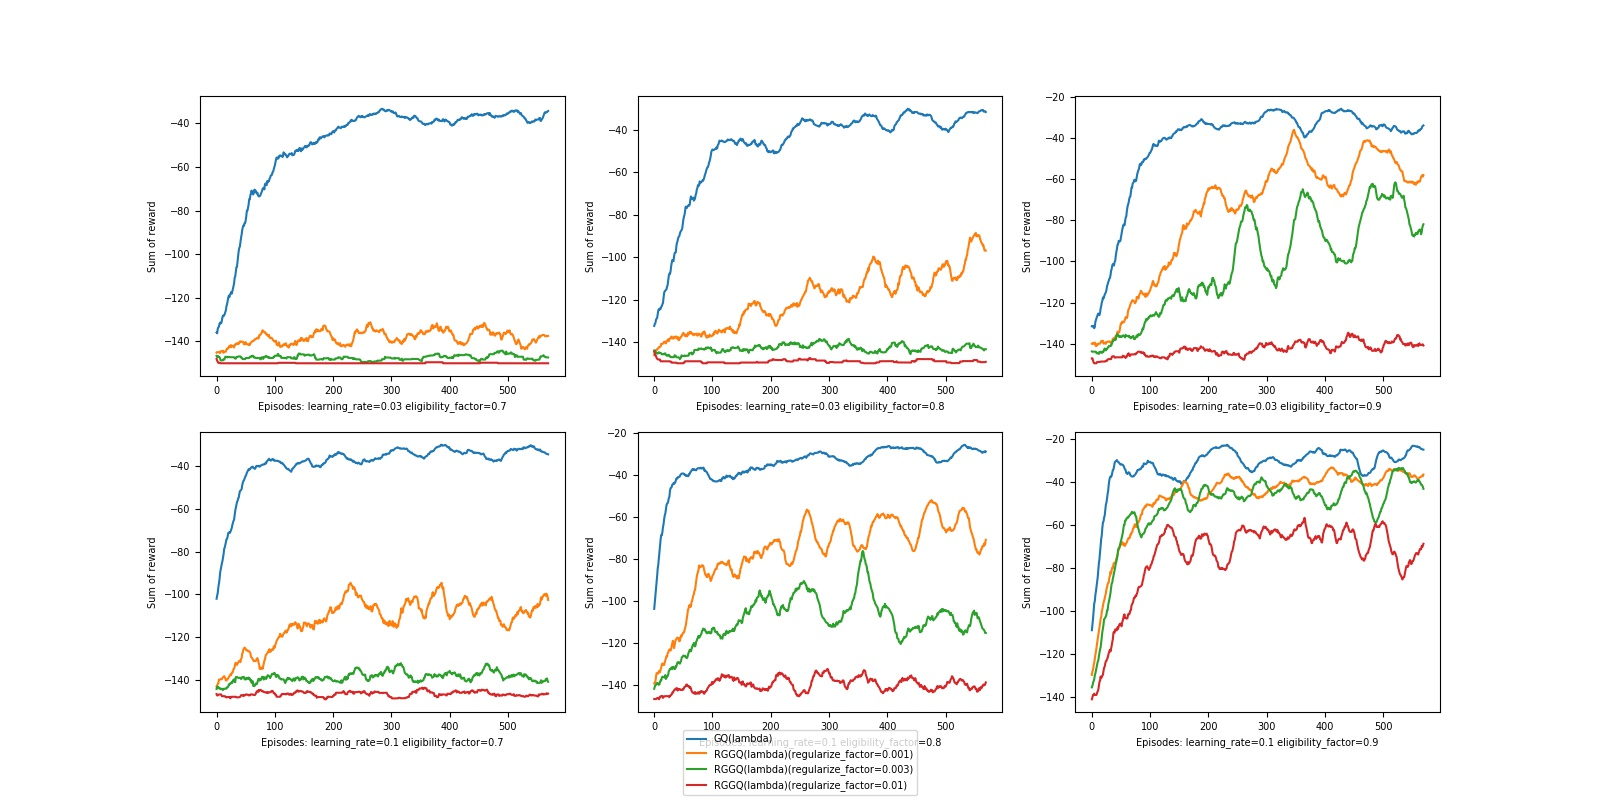
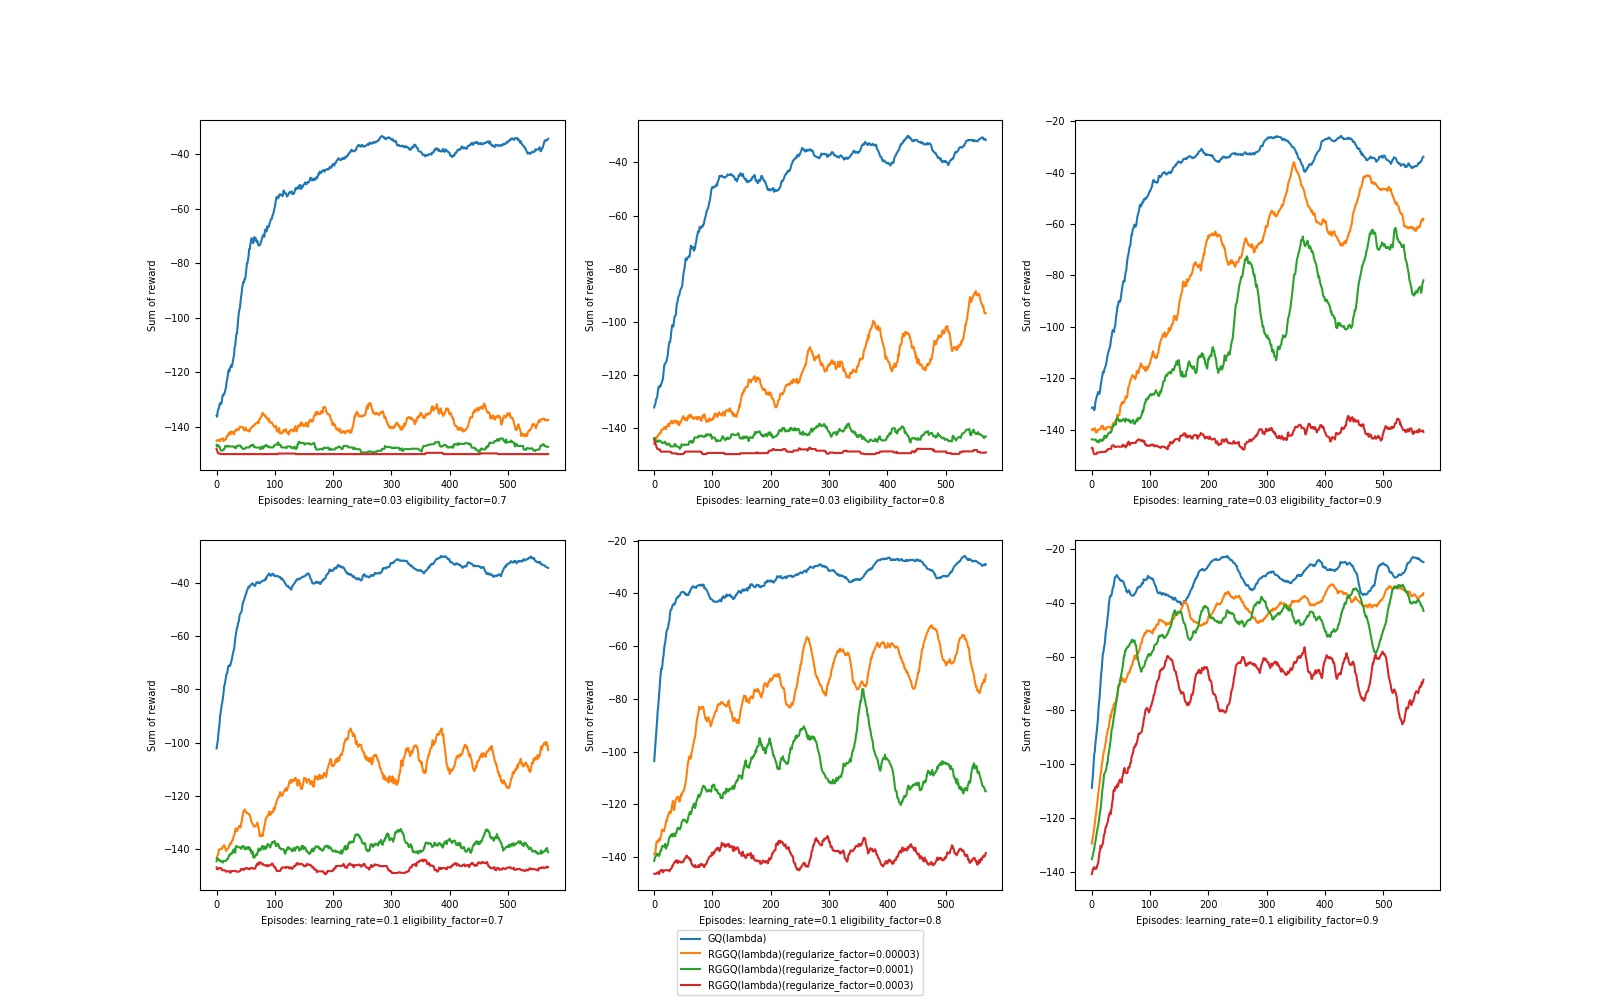
Mountain car data finished

diff --git a/Project/data/MountainCar/data_analysis.py b/Project/data/MountainCar/data_analysis.py
@@ -1,14 +1,11 @@
 import pickle
 import matplotlib
 from matplotlib import pyplot as plt
-import numpy.ma as ma
-import numpy as np
-from pykalman import KalmanFilter
 
 
 def read_data():
     data = {}
-    for data_type in ["time_history", "total_reward"]:
+    for data_type in ["time_history", "total_reward", ]:
         data[data_type] = {}
         for algo in ["GGQ", "RGGQ"]:
             data[data_type][algo] = {}
@@ -16,16 +13,6 @@ def read_data():
                 data[data_type][algo][learning_rate] = {}
                 for eligibility_factor in [0.7, 0.8, 0.9]:
                     data[data_type][algo][learning_rate][eligibility_factor] = {}
-                    if "OSKQ" == algo:
-                        for mu_1 in [0.04]:
-                            data[data_type][algo][learning_rate][eligibility_factor][mu_1] = {}
-                            for mu_2 in [0.04, 0.08]:
-                                with open(
-                                        data_type + "_" + algo + "-" + str(learning_rate) +
-                                        "-" + str(eligibility_factor) + "-" + str(mu_1) + "-" + str(mu_2),
-                                        'rb'
-                                ) as f:
-                                    data[data_type][algo][learning_rate][eligibility_factor][mu_1][mu_2] = pickle.load(f)
 
                     if "RGGQ" == algo:
                         for regularize_factor in [0.00003, 0.0001, 0.0003]:
@@ -42,6 +29,20 @@ def read_data():
                                 'rb'
                         ) as f:
                             data[data_type][algo][learning_rate][eligibility_factor] = pickle.load(f)
+
+    data["sparsity"] = {}
+    data["sparsity"]["RGGQ"] = {}
+    for learning_rate in [0.03, 0.1]:
+        data["sparsity"]["RGGQ"][learning_rate] = {}
+        for eligibility_factor in [0.7, 0.8, 0.9]:
+            data["sparsity"]["RGGQ"][learning_rate][eligibility_factor] = {}
+            for regularize_factor in [0.00003, 0.0001, 0.0003]:
+                with open(
+                    "sparsity_RGGQ" + "-" + str(learning_rate) + "-" +
+                    str(eligibility_factor) + "-" + str(regularize_factor),
+                    'rb'
+                ) as f:
+                    data["sparsity"]["RGGQ"][learning_rate][eligibility_factor][regularize_factor] = pickle.load(f)
     return data
 
 
@@ -49,7 +50,7 @@ def save_img(data):
     font = {'family': 'normal',
             'size': 7}
     matplotlib.rc('font', **font)
-    fig = plt.figure(figsize=(16, 8))
+    fig = plt.figure(figsize=(16, 10))
     for learning_rate_idx, learning_rate in enumerate([0.03, 0.1]):
         for eligibility_factor_idx, eligibility_factor in enumerate([0.7, 0.8, 0.9]):
             ax = fig.add_subplot(
@@ -61,49 +62,63 @@ def save_img(data):
             line_2, = plt.plot(data["total_reward"]["RGGQ"][learning_rate][eligibility_factor][0.00003])
             line_3, = plt.plot(data["total_reward"]["RGGQ"][learning_rate][eligibility_factor][0.0001])
             line_4, = plt.plot(data["total_reward"]["RGGQ"][learning_rate][eligibility_factor][0.0003])
-            # line_5, = plt.plot(data["total_reward"]["OSKQ"][learning_rate][eligibility_factor][0.04])
-            # line_6, = plt.plot(data["total_reward"]["OSKQ"][learning_rate][eligibility_factor][0.08])
     fig.legend(
         (line_1, line_2, line_3, line_4),
         (
-            "GQ(lambda)", "RGGQ(lambda)(regularize_factor=0.001)",
-            "RGGQ(lambda)(regularize_factor=0.003)", "RGGQ(lambda)(regularize_factor=0.01)",
+            "GQ(lambda)",
+            "RGGQ(lambda)(regularize_factor=0.00003)",
+            "RGGQ(lambda)(regularize_factor=0.0001)",
+            "RGGQ(lambda)(regularize_factor=0.0003)",
         ),
         loc=8)
 
-    # fig.legend(
-    #     (line_1, line_2, line_3, line_4, line_5, line_6, line_7),
-    #     (
-    #         "GQ(lambda)", "RGGQ(lambda)(regularize_factor=0.001)",
-    #         "RGGQ(lambda)(regularize_factor=0.003)", "RGGQ(lambda)(regularize_factor=0.01)",
-    #         "RGGQ(lambda)(regularize_factor=0.03)",
-    #         "OKS-Q(mu2=0.04)", "OKS-Q(mu2=0.08)"),
-    #     loc=8)
     fig.savefig("Total Reward.jpg")
 
-    fig = plt.figure(figsize=(16, 8))
+    fig = plt.figure(figsize=(16, 10))
     for learning_rate_idx, learning_rate in enumerate([0.03, 0.1]):
         for eligibility_factor_idx, eligibility_factor in enumerate([0.7, 0.8, 0.9]):
             ax = fig.add_subplot(
                 2, 3, learning_rate_idx * 3 + eligibility_factor_idx + 1)
             ax.set_xlabel("Episodes: learning_rate=" + str(learning_rate) + " eligibility_factor=" + str(eligibility_factor))
-            ax.set_ylabel('Sum of reward')
+            ax.set_ylabel('Sum of consumed time')
 
             line_1, = plt.plot(data["time_history"]["GGQ"][learning_rate][eligibility_factor])
             line_2, = plt.plot(data["time_history"]["RGGQ"][learning_rate][eligibility_factor][0.00003])
             line_3, = plt.plot(data["time_history"]["RGGQ"][learning_rate][eligibility_factor][0.0001])
             line_4, = plt.plot(data["time_history"]["RGGQ"][learning_rate][eligibility_factor][0.0003])
-            # line_5, = plt.plot(data["time_history"]["OSKQ"][learning_rate][eligibility_factor][0.04][0.04])
-            # line_6, = plt.plot(data["time_history"]["OSKQ"][learning_rate][eligibility_factor][0.04][0.08])
 
     fig.legend(
         (line_1, line_2, line_3, line_4),
         (
-            "GQ(lambda)", "RGGQ(lambda)(regularize_factor=0.001)",
-            "RGGQ(lambda)(regularize_factor=0.003)", "RGGQ(lambda)(regularize_factor=0.01)",
+            "GQ(lambda)",
+            "RGGQ(lambda)(regularize_factor=0.00003)",
+            "RGGQ(lambda)(regularize_factor=0.0001)",
+            "RGGQ(lambda)(regularize_factor=0.0003)",
         ),
         loc=8)
     fig.savefig("Total time consumed.jpg")
+
+    fig = plt.figure(figsize=(16, 10))
+    for learning_rate_idx, learning_rate in enumerate([0.03, 0.1]):
+        for eligibility_factor_idx, eligibility_factor in enumerate([0.7, 0.8, 0.9]):
+            ax = fig.add_subplot(
+                2, 3, learning_rate_idx * 3 + eligibility_factor_idx + 1)
+            ax.set_xlabel("Episodes: learning_rate=" + str(learning_rate) + " eligibility_factor=" + str(eligibility_factor))
+            ax.set_ylabel('Sparsity')
+
+            line_1, = plt.plot(data["sparsity"]["RGGQ"][learning_rate][eligibility_factor][0.00003])
+            line_2, = plt.plot(data["sparsity"]["RGGQ"][learning_rate][eligibility_factor][0.0001])
+            line_3, = plt.plot(data["sparsity"]["RGGQ"][learning_rate][eligibility_factor][0.0003])
+
+    fig.legend(
+        (line_1, line_2, line_3),
+        (
+            "RGGQ(lambda)(regularize_factor=0.00003)",
+            "RGGQ(lambda)(regularize_factor=0.0001)",
+            "RGGQ(lambda)(regularize_factor=0.0003)",
+        ),
+        loc=8)
+    fig.savefig("Sparsity.jpg")
 
 
 def data_denoise(data, ave_step=5):
